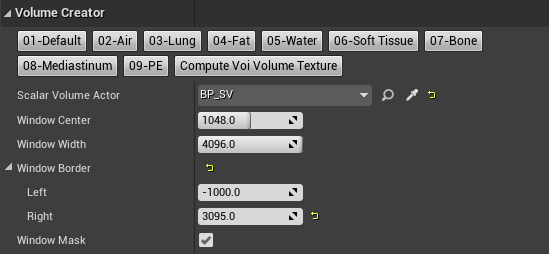
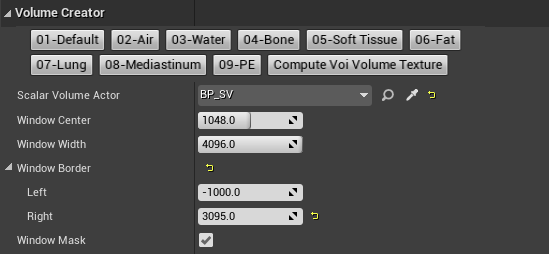
doc: update readme, fix voi default

Changed region(s): [[0.031, 0.1102, 0.898, 0.3031]]

diff --git a/README.md b/README.md
@@ -396,7 +396,7 @@ Parameter, Category 'Volume Creator' (see figure 'Details Panel'):
   * Info: Mandatory, Hounsfield Units data source
 * Window Center
   * Type: `Float`
-  * Default Value: `1048.0`
+  * Default Value: `1047.0`
   * Range: [`-1000.0`, `3095.0`]
   * Info: Window Center in Hounsfield Units (aka level or brightness)
 * Window Width
@@ -427,7 +427,7 @@ The VOI range can also be set by clicking one of the VOI range buttons (see figu
 *Table 4.2.1.1.: VOI Ranges*<br>
 | VOI Range Name | Left Border | Right Border | Window Center | Window Width |
 |-------------|--------:|--------:|--------:|-------:|
-| Default     | `-1000` |  `3095` |  `1048` | `4096` |
+| Default     | `-1000` |  `3095` |  `1047` | `4096` |
 | Air         | `-1000` | `-1000` | `-1000` |    `1` |
 | Water       |     `0` |     `0` |     `0` |    `1` |
 | Bone        |   `400` |  `1000` |   `700` |  `600` |
